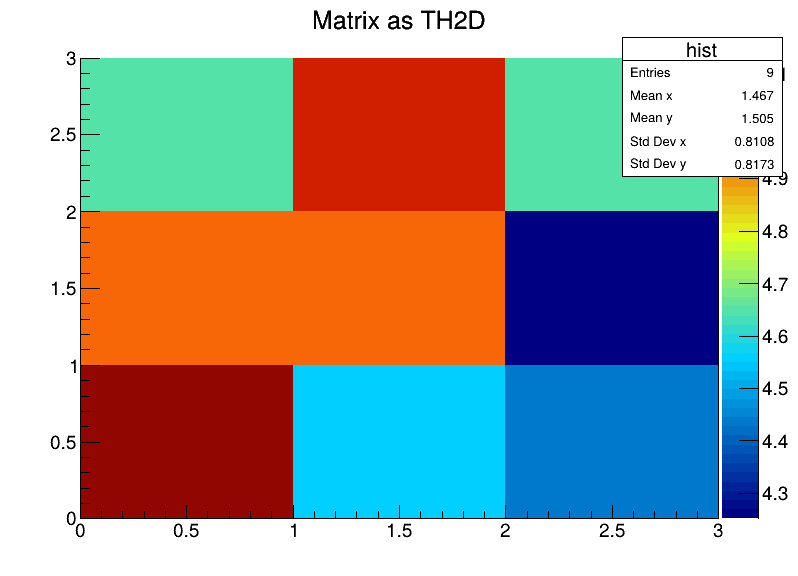
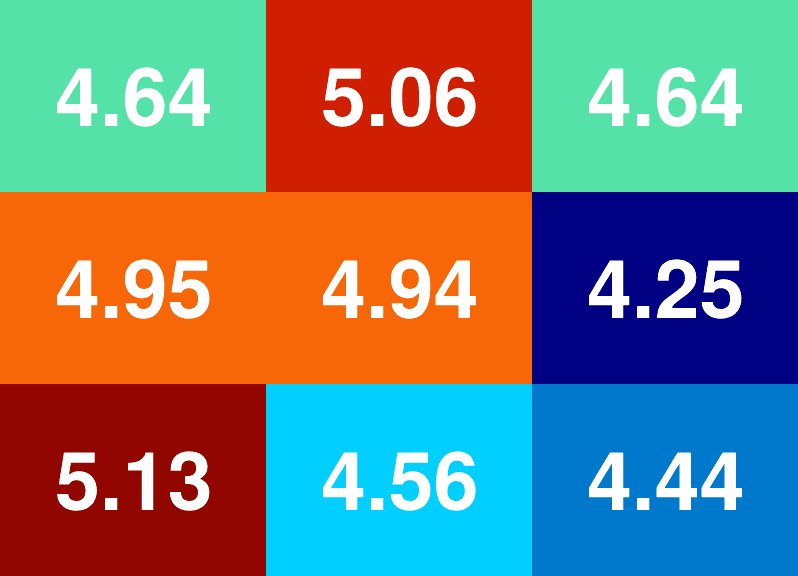
small fix

diff --git a/MapPage.qml b/MapPage.qml
@@ -278,6 +278,8 @@ Page {
                 gridColumns: 1
                 parent: mapView.map
                 overlayEnabled: mapGridOverlaySwitch.checked
+                z: 10000
+
 
 //                onCoordinateChanged: function(newCoordinate) {
 //                    console.log("Grid moved to:", coordinate.latitude,
@@ -456,23 +458,180 @@ Page {
              }
 
 
-             property var topLeft:     QtPositioning.coordinate(56.7626490954404, 37.219724674593664)
-             property var bottomRight: QtPositioning.coordinate(56.76088488383156, 37.2229433254102)
-             property var center: QtPositioning.coordinate(56.76176698963598, 37.22133400000193)
-             property int bearing: 0
+             //44.98123315320525 42.008523822560335
+             //150.8
+             //17
+//             readonly property var    center_:   QtPositioning.coordinate(56.761767, 37.221334)
+             readonly property var    center_:   QtPositioning.coordinate(44.98123315320525, 42.008523822560335)
+             readonly property real   size_:     150.8
+             readonly property real   bearing_:  17
 
+             MapQuickItem {
+                 id: densityMapQuickItem
+                     parent: mapView.map
+                     coordinate: center_
+                     z: 10000
+                     anchorPoint: Qt.point(densityImage.width / 2, densityImage.height / 2)
+
+                     sourceItem: Image {
+                         id: densityImage
+                         source: "file:///home/egor/MyQmlApp/matrix_hist.png"
+                         antialiasing: true
+                         mipmap: true
+                         width: 100
+                         height: 100
+                         opacity: 0.8
+                         transform: [
+                             Rotation {
+                                origin.x: densityImage.width / 2
+                                origin.y: densityImage.height / 2
+                                axis { x: 0; y: 0; z: 1 }
+                                angle: bearing_ - mapView.map.bearing
+                             },
+                             Rotation {
+                                origin.x: densityImage.width / 2
+                                origin.y: densityImage.height / 2
+                                axis { x: 1; y: 0; z: 0 }
+                                angle: mapView.map.tilt
+                             }
+                         ]
+                     }
+                     function updateSize() {
+                         if (!mapView.map.mapReady) {
+                             return
+                         }
+                         var lat = center_.latitude
+                         var mpp = 156543.03392 * Math.cos(lat * Math.PI / 180) / Math.pow(2, mapView.map.zoomLevel)
+                         var sidePx = size_ / mpp
+                         densityImage.width  = sidePx
+                         densityImage.height = sidePx
+                     }
+
+                     Connections {
+                         target: mapView.map
+                         function onMapReadyChanged()   { densityMapQuickItem.updateSize() }
+                         function onZoomLevelChanged()  { densityMapQuickItem.updateSize() }
+                         function onTiltChanged() { densityMapQuickItem.updateSize() }
+                         function onCenterChanged()     { densityMapQuickItem.updateSize() }
+                     }
+
+                     Component.onCompleted: {
+                         updateSize()
+//                         Qt.callLater(function() { bearing_ = 45 })
+                     }
+
+                 }
 
 
 //             MapQuickItem {
+//                 id: densityMapQuickItem
+//                     // Known geographic anchor center
+//                     parent: mapView.map
+//                     coordinate: center_
+
+//                     // Match the center point of your item to the coordinate
+//                     anchorPoint: Qt.point(densityRectangle.width / 2, densityRectangle.height / 2)
+
+//                     sourceItem: Rectangle {
+//                         id: densityRectangle
+//                         width: 100  // Dimensions in screen pixels
+//                         height: 100
+//                         color: "blue"
+//                         border.color: "white"
+//                         border.width: 1
+
+//                         // Rotate the screen item around its exact center
+//                         transform: Rotation {
+//                             origin.x: densityRectangle.width / 2
+//                             origin.y: densityRectangle.height / 2
+//                             angle: bearing_
+//                         }
+//                     }
+//                     function updateSize() {
+//                         if (!mapView.map.mapReady) {
+//                             return
+//                         }
+//                         var lat = center_.latitude
+//                         var mpp = 156543.03392 * Math.cos(lat * Math.PI / 180) / Math.pow(2, mapView.map.zoomLevel)
+//                         var sidePx = size_ / mpp
+//                         densityRectangle.width  = sidePx
+//                         densityRectangle.height = sidePx
+//                     }
+
+//                     Connections {
+//                         target: mapView.map
+//                         function onMapReadyChanged()   { densityMapQuickItem.updateSize() }
+//                         function onZoomLevelChanged()  { densityMapQuickItem.updateSize() }
+////                         function onCenterChanged()     { densityMapQuickItem.updateSize() }
+//                     }
+
+//                     Component.onCompleted: {
+//                         updateSize()
+////                         Qt.callLater(function() { bearing_ = 45 })
+//                     }
+
+//                 }
+
+//             MapQuickItem {
+//                     id: densityMapQuickItem
+//                     parent: mapView.map
+//                     coordinate: center_
+////                     anchorPoint.x: densityMapQuickItem.sourceItem ? densityMapQuickItem.sourceItem.width  / 2 : 0
+////                     anchorPoint.y: densityMapQuickItem.sourceItem ? densityMapQuickItem.sourceItem.height / 2 : 0
+
+//                     sourceItem: Item {
+//                         id: densityItem
+//                         width: 10
+//                         height: 10
+////                         anchors.centerIn: parent
+//                         rotation: bearing_          // rotates around Item.Center by default
+//                         transformOrigin: Item.Center
+
+//                         Rectangle {
+//                             anchors.fill: parent
+//                             color: "blue"
+//                             border.color: "black"
+//                             border.width: 1
+//                         }
+//                     }
+
+//                     function updateSize() {
+//                         if (!mapView.map.mapReady) {
+//                             return
+//                         }
+//                         var lat = center_.latitude
+//                         var mpp = 156543.03392 * Math.cos(lat * Math.PI / 180) / Math.pow(2, mapView.map.zoomLevel)
+//                         var sidePx = size_ / mpp
+//                         console.log("sidePx", sidePx)
+//                         densityItem.width  = sidePx
+//                         densityItem.height = sidePx
+//                         densityMapQuickItem.anchorPoint.x = densityItem ? densityItem.width  / 2 : 0
+//                         densityMapQuickItem.anchorPoint.y = densityItem ? densityItem.height  / 2 : 0
+
+//                     }
+
+//                     Connections {
+//                         target: mapView.map
+//                         function onMapReadyChanged()   { densityMapQuickItem.updateSize() }
+//                         function onZoomLevelChanged()  { densityMapQuickItem.updateSize() }
+////                         function onCenterChanged()     { densityMapQuickItem.updateSize() }
+//                     }
+
+//                     Component.onCompleted: {
+//                         updateSize()
+//                         // Rotate 45° after everything is laid out
+//                         Qt.callLater(function() { bearing_ = 45 })
+//                     }
+//                 }
+//             MapQuickItem {
 //                 id: topLeftMarker
 //                 parent: mapView.map
-//                 coordinate: topLeft
+//                 coordinate: center
 //                 sourceItem: Item {
 //                     id: topLeftItem
-////                     anchors.centerIn: parent
+//                     anchors.centerIn: parent
 //                     width: 0
 //                     height: 0
-//                     rotation: bearing
 //                     Rectangle {
 //                         anchors.centerIn: parent
 //                         anchors.fill: parent
@@ -493,7 +652,7 @@ Page {
 //                             console.log(topLeft.distanceTo(bottomRight) * Math.cos(Math.PI / 4.0))
 //                             topLeftItem.width = (bR.x - tL.x);
 //                             topLeftItem.height = (bR.y - tL.y);
-////                             topLeftItem.rotation = -bearing;
+//                             topLeftItem.rotation = bearing;
 //                         }
 //                     }
 

diff --git a/MapGridOverlay.qml b/MapGridOverlay.qml
@@ -57,8 +57,8 @@ MapQuickItem {
 
 //            console.log("topLeft", coord_topLeft.latitude, coord_topLeft.longitude)
 //            console.log("bottomRight", coord_bottomRight.latitude, coord_bottomRight.longitude)
-//            console.log("bearing", map.bearing)
-//            console.log("center", coord_center.latitude, coord_center.longitude)
+            console.log("bearing", map.bearing)
+            console.log("center", coord_center.latitude, coord_center.longitude)
 
             return coord_topLeft.distanceTo(coord_bottomRight) * Math.cos(Math.PI / 4.0)
         }
